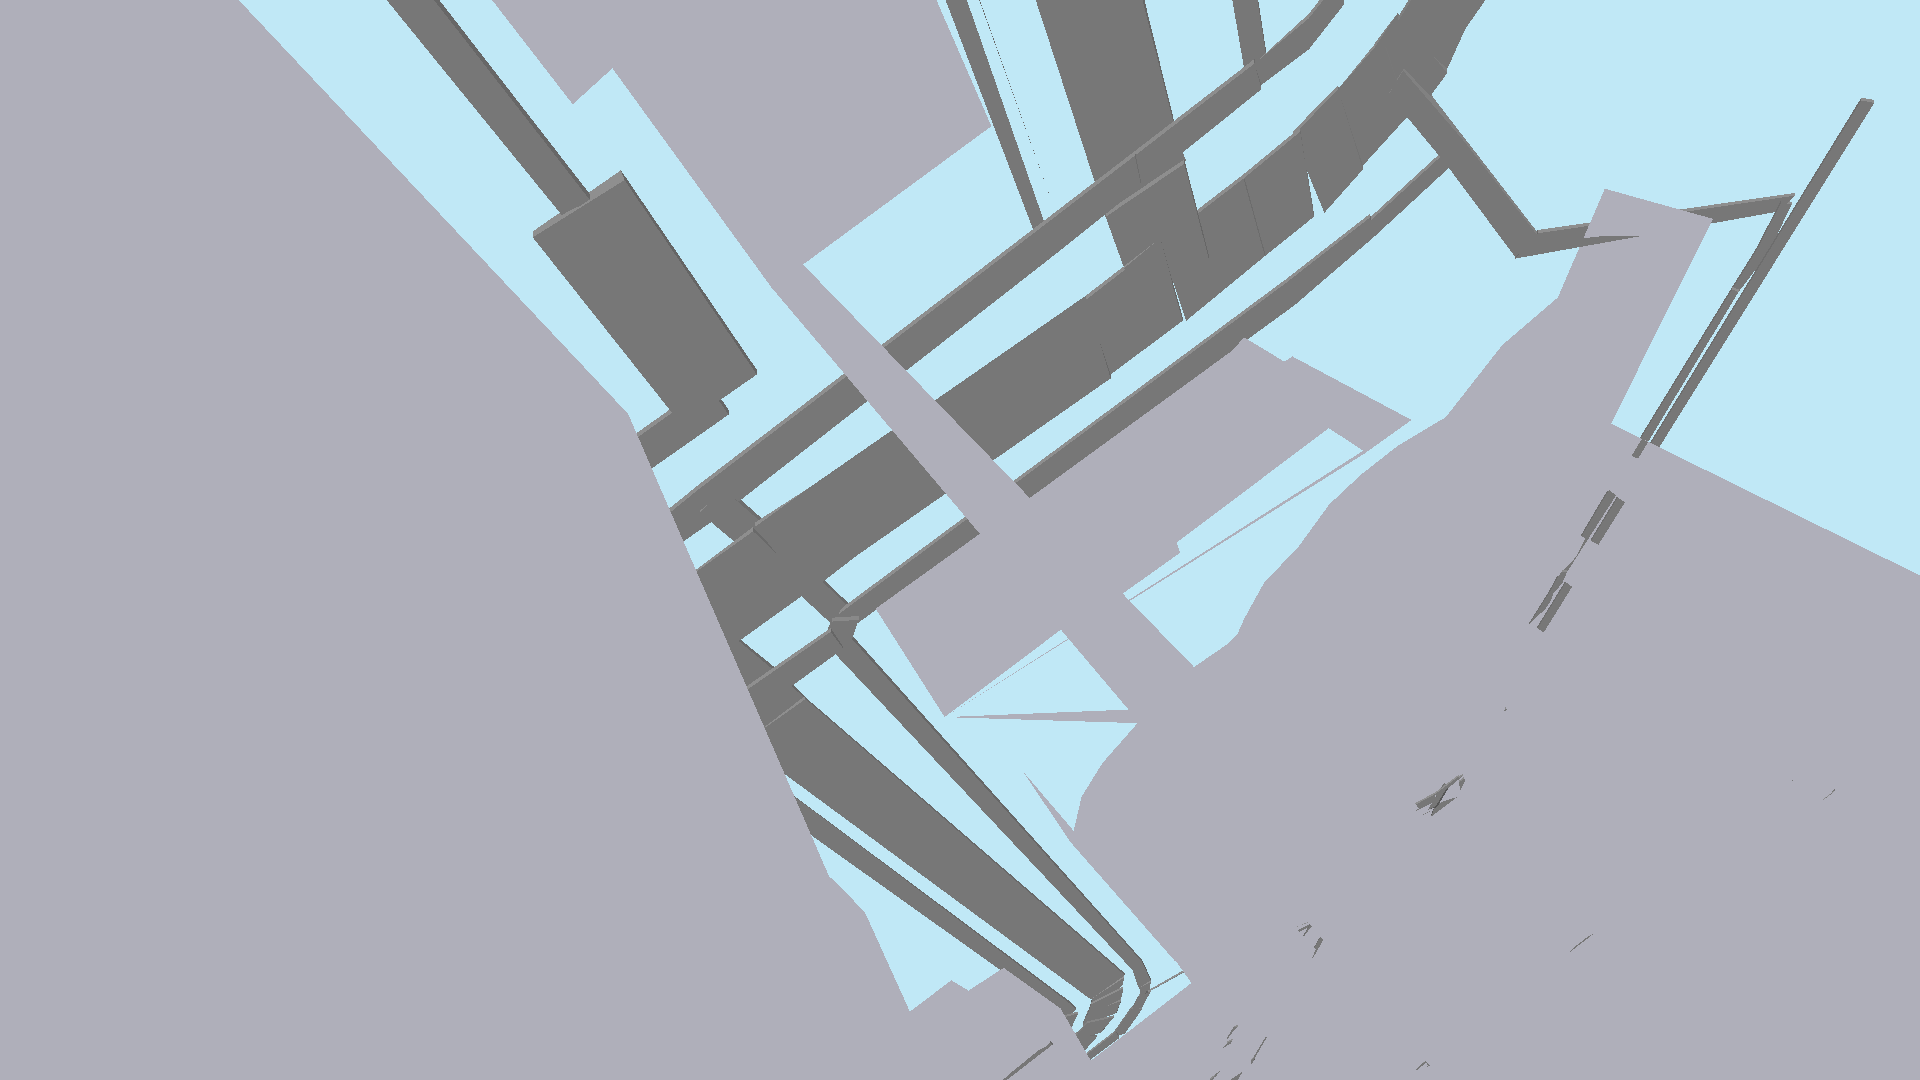
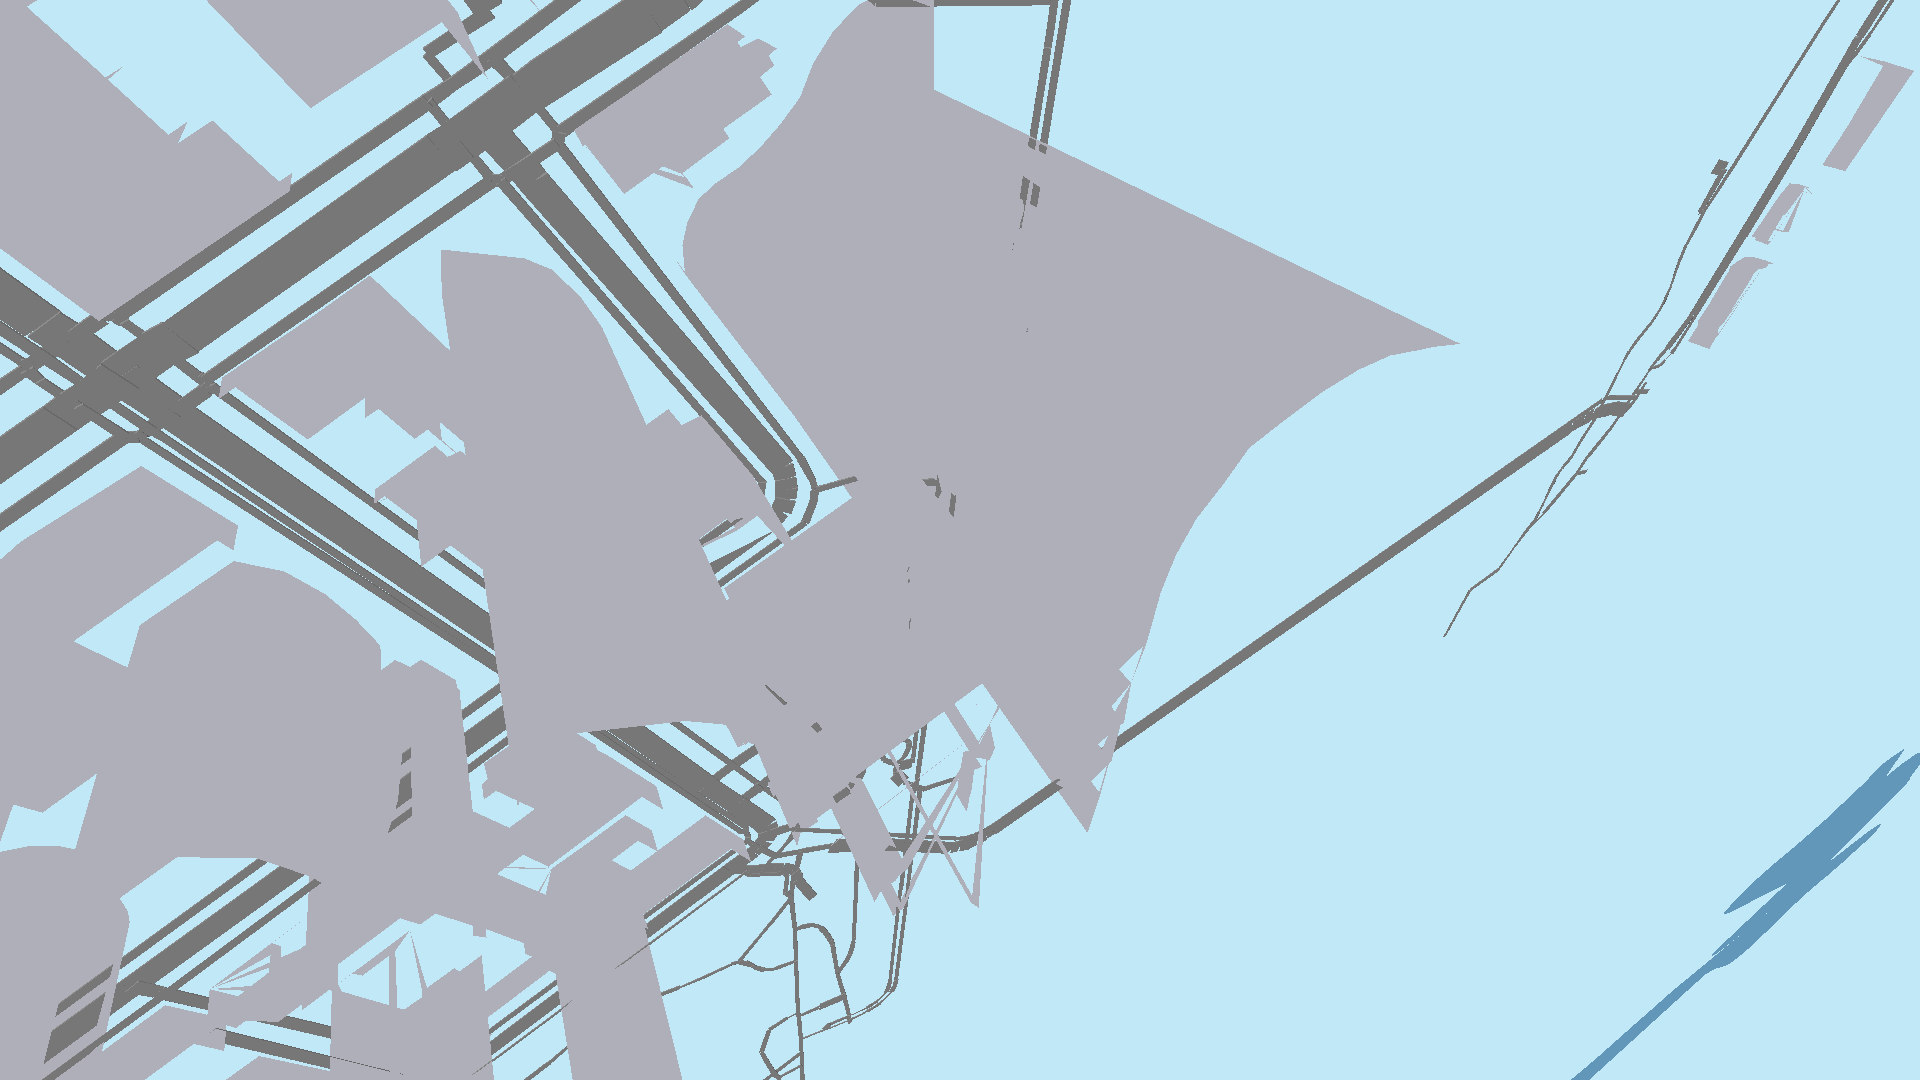
fix(test): relocate to Story Bridge for better validation
Story Bridge area is much better test case than CBD:
- No 270m skyscrapers blocking camera view
- Has elevation changes (bridge over river)
- Mix of features: bridge, tunnels, roads, buildings, water, parklands
- Recognizable landmark (easy to validate against photos)
- Less dense - can actually see geometry

Changes:
- Test location: (-27.461900, 153.041900)
- Camera altitude: 250m (overview) and 20m (ground level)
- Updated REFERENCE_IMAGES.md with Story Bridge URLs
- 500m radius captures bridge and surroundings

Next: Download new reference images, capture screenshots, diagnose issues.

diff --git a/examples/capture_screenshots.rs b/examples/capture_screenshots.rs
@@ -16,12 +16,13 @@ use winit::window::{Window, WindowAttributes};
 use wgpu::util::DeviceExt;
 use glam::DVec3;
 
-// Test location: Actual center of loaded OSM data
-// (NOT Queen Street Mall - that's 444m west of data center)
+// Test location: Story Bridge and surroundings, Brisbane
+// Better test case: bridges, tunnels, elevation changes, parklands, water
+// Less dense than CBD - can actually see geometry without skyscrapers blocking view
 const TEST_GPS: GpsPos = GpsPos {
-    lat_deg: -27.469766,  // Actual OSM data center
-    lon_deg: 153.029608,   // Actual OSM data center
-    elevation_m: 50.0,
+    lat_deg: -27.4619,  // Story Bridge center
+    lon_deg: 153.0419,
+    elevation_m: 250.0,  // 250m altitude for overview
 };
 
 // 10 camera views matching REFERENCE_IMAGES.md exactly
@@ -33,16 +34,18 @@ struct CameraView {
 }
 
 const CAMERA_VIEWS: &[CameraView] = &[
-    CameraView { filename: "01_top_down.png", altitude_m: 50.0, heading_deg: 0.0, tilt_deg: 0.0 },
-    CameraView { filename: "02_north_horizontal.png", altitude_m: 50.0, heading_deg: 0.0, tilt_deg: 90.0 },
-    CameraView { filename: "03_east_horizontal.png", altitude_m: 50.0, heading_deg: 90.0, tilt_deg: 90.0 },
-    CameraView { filename: "04_south_horizontal.png", altitude_m: 50.0, heading_deg: 180.0, tilt_deg: 90.0 },
-    CameraView { filename: "05_west_horizontal.png", altitude_m: 50.0, heading_deg: 270.0, tilt_deg: 90.0 },
-    CameraView { filename: "06_northeast_angle.png", altitude_m: 50.0, heading_deg: 45.0, tilt_deg: 45.0 },
-    CameraView { filename: "07_southeast_angle.png", altitude_m: 50.0, heading_deg: 135.0, tilt_deg: 45.0 },
-    CameraView { filename: "08_southwest_angle.png", altitude_m: 50.0, heading_deg: 225.0, tilt_deg: 45.0 },
-    CameraView { filename: "09_northwest_angle.png", altitude_m: 50.0, heading_deg: 315.0, tilt_deg: 45.0 },
-    CameraView { filename: "10_ground_level_north.png", altitude_m: 5.0, heading_deg: 0.0, tilt_deg: 85.0 },
+    // 250m altitude - high enough to clear all features, low enough to see detail
+    CameraView { filename: "01_top_down.png", altitude_m: 250.0, heading_deg: 0.0, tilt_deg: 0.0 },
+    CameraView { filename: "02_north_horizontal.png", altitude_m: 250.0, heading_deg: 0.0, tilt_deg: 90.0 },
+    CameraView { filename: "03_east_horizontal.png", altitude_m: 250.0, heading_deg: 90.0, tilt_deg: 90.0 },
+    CameraView { filename: "04_south_horizontal.png", altitude_m: 250.0, heading_deg: 180.0, tilt_deg: 90.0 },
+    CameraView { filename: "05_west_horizontal.png", altitude_m: 250.0, heading_deg: 270.0, tilt_deg: 90.0 },
+    CameraView { filename: "06_northeast_angle.png", altitude_m: 250.0, heading_deg: 45.0, tilt_deg: 45.0 },
+    CameraView { filename: "07_southeast_angle.png", altitude_m: 250.0, heading_deg: 135.0, tilt_deg: 45.0 },
+    CameraView { filename: "08_southwest_angle.png", altitude_m: 250.0, heading_deg: 225.0, tilt_deg: 45.0 },
+    CameraView { filename: "09_northwest_angle.png", altitude_m: 250.0, heading_deg: 315.0, tilt_deg: 45.0 },
+    // Ground level at 20m (above street level, can see buildings)
+    CameraView { filename: "10_ground_level_north.png", altitude_m: 20.0, heading_deg: 0.0, tilt_deg: 85.0 },
 ];
 
 struct ScreenshotApp {
@@ -294,10 +297,10 @@ impl ApplicationHandler for ScreenshotApp {
     fn resumed(&mut self, event_loop: &ActiveEventLoop) {
         if self.window.is_none() {
             println!("\n=== AUTOMATED SCREENSHOT CAPTURE ===");
-            println!("Location: Brisbane CBD (actual OSM data center)");
+            println!("Location: Story Bridge, Brisbane (elevated bridge with surroundings)");
             println!("GPS: ({:.6}, {:.6})", TEST_GPS.lat_deg, TEST_GPS.lon_deg);
-            println!("NOTE: Queen St Mall (-27.469800, 153.025100) is 444m west of this");
-            println!("Capturing {} views to match REFERENCE_IMAGES.md\n", CAMERA_VIEWS.len());
+            println!("Features: Bridge, river, tunnels, roads, buildings, parklands");
+            println!("Capturing {} views at 250m altitude\n", CAMERA_VIEWS.len());
             
             // Create screenshot directory
             fs::create_dir_all("screenshot").expect("Failed to create screenshot directory");

diff --git a/examples/test_building_walls.rs b/examples/test_building_walls.rs
@@ -1,0 +1,76 @@
+// Test building wall generation
+use metaverse_core::renderer::mesh::generate_building;
+use glam::Vec3;
+
+fn main() {
+    // Simple square building (4 walls)
+    let footprint = vec![
+        (-27.470, 153.025),  // Corner 1
+        (-27.470, 153.026),  // Corner 2  
+        (-27.469, 153.026),  // Corner 3
+        (-27.469, 153.025),  // Corner 4
+    ];
+    
+    let (vertices, indices) = generate_building(
+        &footprint,
+        0.0,    // ground level
+        20.0,   // 20m tall
+        Vec3::new(0.7, 0.7, 0.8),
+    );
+    
+    println!("\n=== Building Geometry Test ===");
+    println!("Square building: 4 corners, 20m tall\n");
+    println!("Generated:");
+    println!("  {} vertices", vertices.len());
+    println!("  {} indices", indices.len());
+    println!("  {} triangles\n", indices.len() / 3);
+    
+    // Expected for a complete box with 4 walls:
+    // - Base: 4 vertices
+    // - Top: 4 vertices  
+    // - Walls: 4 walls × 2 triangles = 8 triangles = 24 indices
+    // - Base cap: 2 triangles = 6 indices
+    // - Top cap: 2 triangles = 6 indices
+    // Total: 36 indices minimum for complete closed box
+    
+    println!("Expected for COMPLETE box:");
+    println!("  8 vertices (4 base + 4 top)");
+    println!("  36+ indices (4 walls + base + top)");
+    println!("    - 4 walls: 24 indices");
+    println!("    - Base cap: 6 indices");
+    println!("    - Top cap: 6 indices\n");
+    
+    if vertices.len() < 8 {
+        println!("❌ PROBLEM: Not enough vertices! Missing {} vertices", 8 - vertices.len());
+    } else {
+        println!("✓ Vertices OK");
+    }
+    
+    if indices.len() < 36 {
+        println!("❌ PROBLEM: Not enough indices for complete box! Missing {} indices", 36 - indices.len());
+        println!("   This means walls or caps are missing!");
+    } else {
+        println!("✓ Indices OK - all walls and caps present");
+    }
+    
+    // Test a more complex building (Pentagon - 5 walls)
+    let pentagon = vec![
+        (-27.470, 153.025),
+        (-27.470, 153.026),
+        (-27.4695, 153.0265),
+        (-27.469, 153.026),
+        (-27.469, 153.025),
+    ];
+    
+    let (verts2, indices2) = generate_building(
+        &pentagon,
+        0.0,
+        15.0,
+        Vec3::new(0.7, 0.7, 0.8),
+    );
+    
+    println!("\n=== Pentagon Building (5 walls) ===");
+    println!("Generated: {} vertices, {} indices ({} triangles)",
+        verts2.len(), indices2.len(), indices2.len() / 3);
+    println!("Expected: 10 vertices (5 base + 5 top), 45+ indices (5 walls + caps)");
+}

diff --git a/examples/check_building_heights.rs b/examples/check_building_heights.rs
@@ -1,0 +1,34 @@
+use metaverse_core::cache::DiskCache;
+use metaverse_core::osm::OsmData;
+
+fn main() {
+    let cache = DiskCache::new().unwrap();
+    let cache_keys = ["brisbane_cbd"];
+    
+    for key in &cache_keys {
+        if let Ok(cached_bytes) = cache.read_osm(key) {
+            if let Ok(osm_data) = serde_json::from_slice::<OsmData>(&cached_bytes) {
+                let mut heights: Vec<f64> = osm_data.buildings.iter()
+                    .map(|b| b.height_m)
+                    .collect();
+                heights.sort_by(|a, b| a.partial_cmp(b).unwrap());
+                
+                println!("Building heights in dataset:");
+                println!("  Total buildings: {}", heights.len());
+                println!("  Min height: {:.1}m", heights.first().unwrap_or(&0.0));
+                println!("  Max height: {:.1}m", heights.last().unwrap_or(&0.0));
+                println!("  Median: {:.1}m", heights[heights.len() / 2]);
+                println!("  75th percentile: {:.1}m", heights[heights.len() * 3 / 4]);
+                println!("  90th percentile: {:.1}m", heights[heights.len() * 9 / 10]);
+                
+                let tall_buildings = heights.iter().filter(|&&h| h > 50.0).count();
+                println!("\nBuildings taller than 50m: {} ({:.1}%)", 
+                    tall_buildings, 
+                    (tall_buildings as f64 / heights.len() as f64) * 100.0);
+                    
+                let very_tall = heights.iter().filter(|&&h| h > 100.0).count();
+                println!("Buildings taller than 100m: {}", very_tall);
+            }
+        }
+    }
+}

diff --git a/test_building_geometry.rs b/test_building_geometry.rs
@@ -1,0 +1,38 @@
+// Test: Does building generation actually create all 4 walls?
+use metaverse_core::renderer::mesh::generate_building;
+use glam::Vec3;
+
+fn main() {
+    // Simple square building
+    let footprint = vec![
+        (-27.470, 153.025),  // SW corner
+        (-27.470, 153.026),  // SE corner  
+        (-27.469, 153.026),  // NE corner
+        (-27.469, 153.025),  // NW corner
+    ];
+    
+    let (vertices, indices) = generate_building(
+        &footprint,
+        0.0,    // ground level
+        20.0,   // 20m tall
+        Vec3::new(0.7, 0.7, 0.8),
+    );
+    
+    println!("Square building (4 corners, 20m tall):");
+    println!("  Vertices: {}", vertices.len());
+    println!("  Indices: {}", indices.len());
+    println!("  Triangles: {}", indices.len() / 3);
+    
+    // Expected for a box:
+    // - 8 vertices (4 base + 4 top)
+    // - 4 walls × 2 triangles = 8 triangles = 24 indices
+    // - 2 caps (base + top) × N triangles
+    
+    println!("\nExpected for complete box:");
+    println!("  4 walls = 8 triangles = 24 indices minimum");
+    println!("  + base/top caps");
+    
+    if indices.len() < 24 {
+        println!("\n⚠  WARNING: Not enough indices for 4 walls!");
+    }
+}

diff --git a/REFERENCE_IMAGES.md b/REFERENCE_IMAGES.md
@@ -1,46 +1,57 @@
 # EXACT Google Earth URLs - 10 Screenshots
 
-Location: Queen Street Mall, Brisbane (-27.469800, 153.025100, 50m altitude)
+**NEW LOCATION: Story Bridge, Brisbane**
+
+Location: Story Bridge and surroundings (-27.461900, 153.041900, 250m altitude)
+
+Features in area:
+- Story Bridge (iconic heritage-listed bridge over Brisbane River)
+- Brisbane River (water)
+- Tunnels (Clem7, ICB)
+- Roads with elevation changes
+- Residential buildings (Kangaroo Point, New Farm)
+- Parklands (New Farm Park, Captain Burke Park)
+- Mix of heights and complexity
 
 Copy each URL EXACTLY, paste in browser, wait for load, screenshot, save with filename shown.
 DO NOT move the camera.
 
 ## 1. Top-Down View
 Filename: `reference/01_top_down.png`
-URL: `https://earth.google.com/web/@-27.469800,153.025100,50.00000000a,200.00000000d,35y,0.00000000h,0.00000000t,0.00000000r`
+URL: `https://earth.google.com/web/@-27.461900,153.041900,250.00000000a,800.00000000d,35y,0.00000000h,0.00000000t,0.00000000r`
 
 ## 2. North Horizontal
 Filename: `reference/02_north_horizontal.png`
-URL: `https://earth.google.com/web/@-27.469800,153.025100,50.00000000a,200.00000000d,35y,0.00000000h,90.00000000t,0.00000000r`
+URL: `https://earth.google.com/web/@-27.461900,153.041900,250.00000000a,800.00000000d,35y,0.00000000h,90.00000000t,0.00000000r`
 
 ## 3. East Horizontal
 Filename: `reference/03_east_horizontal.png`
-URL: `https://earth.google.com/web/@-27.469800,153.025100,50.00000000a,200.00000000d,35y,90.00000000h,90.00000000t,0.00000000r`
+URL: `https://earth.google.com/web/@-27.461900,153.041900,250.00000000a,800.00000000d,35y,90.00000000h,90.00000000t,0.00000000r`
 
 ## 4. South Horizontal
 Filename: `reference/04_south_horizontal.png`
-URL: `https://earth.google.com/web/@-27.469800,153.025100,50.00000000a,200.00000000d,35y,180.00000000h,90.00000000t,0.00000000r`
+URL: `https://earth.google.com/web/@-27.461900,153.041900,250.00000000a,800.00000000d,35y,180.00000000h,90.00000000t,0.00000000r`
 
 ## 5. West Horizontal
 Filename: `reference/05_west_horizontal.png`
-URL: `https://earth.google.com/web/@-27.469800,153.025100,50.00000000a,200.00000000d,35y,270.00000000h,90.00000000t,0.00000000r`
+URL: `https://earth.google.com/web/@-27.461900,153.041900,250.00000000a,800.00000000d,35y,270.00000000h,90.00000000t,0.00000000r`
 
 ## 6. North-East Angle (45° down)
 Filename: `reference/06_northeast_angle.png`
-URL: `https://earth.google.com/web/@-27.469800,153.025100,50.00000000a,200.00000000d,35y,45.00000000h,45.00000000t,0.00000000r`
+URL: `https://earth.google.com/web/@-27.461900,153.041900,250.00000000a,800.00000000d,35y,45.00000000h,45.00000000t,0.00000000r`
 
 ## 7. South-East Angle (45° down)
 Filename: `reference/07_southeast_angle.png`
-URL: `https://earth.google.com/web/@-27.469800,153.025100,50.00000000a,200.00000000d,35y,135.00000000h,45.00000000t,0.00000000r`
+URL: `https://earth.google.com/web/@-27.461900,153.041900,250.00000000a,800.00000000d,35y,135.00000000h,45.00000000t,0.00000000r`
 
 ## 8. South-West Angle (45° down)
 Filename: `reference/08_southwest_angle.png`
-URL: `https://earth.google.com/web/@-27.469800,153.025100,50.00000000a,200.00000000d,35y,225.00000000h,45.00000000t,0.00000000r`
+URL: `https://earth.google.com/web/@-27.461900,153.041900,250.00000000a,800.00000000d,35y,225.00000000h,45.00000000t,0.00000000r`
 
 ## 9. North-West Angle (45° down)
 Filename: `reference/09_northwest_angle.png`
-URL: `https://earth.google.com/web/@-27.469800,153.025100,50.00000000a,200.00000000d,35y,315.00000000h,45.00000000t,0.00000000r`
+URL: `https://earth.google.com/web/@-27.461900,153.041900,250.00000000a,800.00000000d,35y,315.00000000h,45.00000000t,0.00000000r`
 
-## 10. Ground Level North
+## 10. Ground Level North (20m altitude)
 Filename: `reference/10_ground_level_north.png`
-URL: `https://earth.google.com/web/@-27.469800,153.025100,5.00000000a,50.00000000d,35y,0.00000000h,85.00000000t,0.00000000r`
+URL: `https://earth.google.com/web/@-27.461900,153.041900,20.00000000a,150.00000000d,35y,0.00000000h,85.00000000t,0.00000000r`
